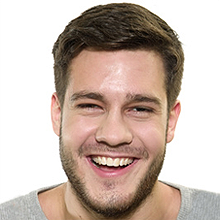
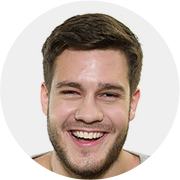
++++

diff --git a/page2/index.html b/page2/index.html
@@ -210,7 +210,7 @@
 
         <section class="team container">
 
-            <h2>Check our <span>awesome team</span></h2>
+            <h2>Check our <span> <br>awesome team</span></h2>
 
             <ul class="team-list">
 
@@ -218,35 +218,35 @@
                     <div class="avatar"></div>
                     <h3>John Doe</h3>
                     <p>Ceo&Founder</p>
-                    <a href="#"></a>
+                    <a href="#" class="btn">Check profile</a>
                 </li>
 
                 <li class="item__persona">
                     <div class="avatar"></div>
                     <h3>Paul Kowalsy</h3>
                     <p>Ceo&Founder</p>
-                    <a href="#"></a>
+                    <a href="#" class="btn">Check profile</a>
                 </li>
 
                 <li class="item__persona">
                     <div class="avatar"></div>
                     <h3>Emilly Williams</h3>
                     <p>Ceo&Founder</p>
-                    <a href="#"></a>
+                    <a href="#" class="btn">Check profile</a>
                 </li>
 
                 <li class="item__persona">
                     <div class="avatar"></div>
                     <h3>Patricia Green</h3>
                     <p>Ceo&Founder</p>
-                    <a href="#"></a>
+                    <a href="#" class="btn">Check profile</a>
                 </li>
             </ul>
 
         </section>
 
 
-        <section class="contact-us">
+        <section class="contact-us ">
             <div class="contact-info">
                 <p>Contact with us</p>
                 <p>Marszalkowska Street 14/35 / Mazowieckie, Poland </p>

diff --git a/page2/css/style.css b/page2/css/style.css
@@ -559,4 +559,85 @@ footer .menu-list .menu__item{
 /* ховер post__item */
 .post__item{}
 
-/*  */
+/*  */ 
+
+
+ 
+/* тим */
+.team h2{
+    font-size: 55px;
+    font-weight: bold;
+}
+
+.team h2 span{
+    color:#2ebaee;
+}
+
+.team-list{
+    display:grid;
+    grid-template-areas: "block1 block2 block3 block4";
+    grid-template-columns: 1f 1f 1f 1f;
+    grid-template-rows: 314px;
+
+}
+
+.item__persona{
+
+}
+.item__persona .avatar{
+    margin:auto auto;
+    display:block;
+    height: 184px;
+    width:184px;
+    
+    border:1px solid white;
+    border-radius: 50%;
+}
+
+.item__persona:nth-child(1) .avatar{
+    background: #efefef url(../img/Warstwa\ 4.png) 50% 100% no-repeat;
+    background-size: 175px;
+}
+.item__persona:nth-child(2) .avatar{
+    background: #efefef url(../img/Warstwa\ 5.png) 50% 100% no-repeat;
+    background-size: 175px;
+}
+.item__persona:nth-child(3) .avatar{
+    background: #efefef url(../img/Warstwa\ 6.png) 50% 100% no-repeat;
+    background-size: 175px;
+}
+.item__persona:nth-child(4) .avatar{
+    background: #efefef url(../img/Warstwa\ 7.png) 50% 100% no-repeat;
+    background-size: 175px;
+}
+
+.item__persona h3{
+    font-size: 30px;
+    margin:0px;
+    margin-top:20px;
+    margin-bottom:5px;
+    text-align: center;
+
+}
+
+.item__persona p{
+    text-align: center;
+    font-size: 14px;
+    margin:0px;
+    color:#878787;
+    margin-bottom: 10px;
+}
+
+.item__persona a{
+
+}
+
+/* contact-us */
+
+.contact-us{
+    background: url('../img/background-contact.png') center center no-repeat;
+}
+
+.contact-info{
+
+}
